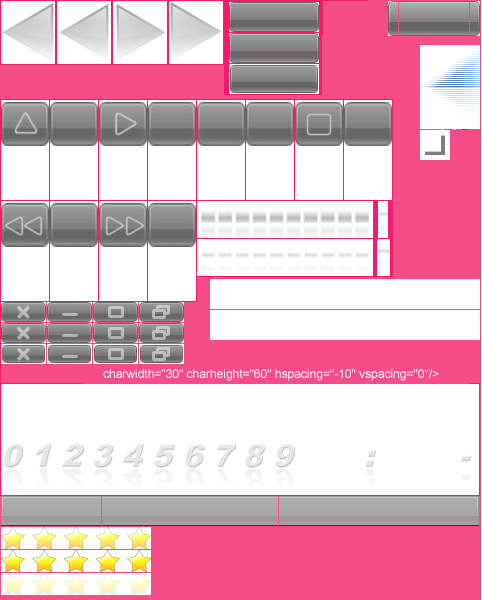
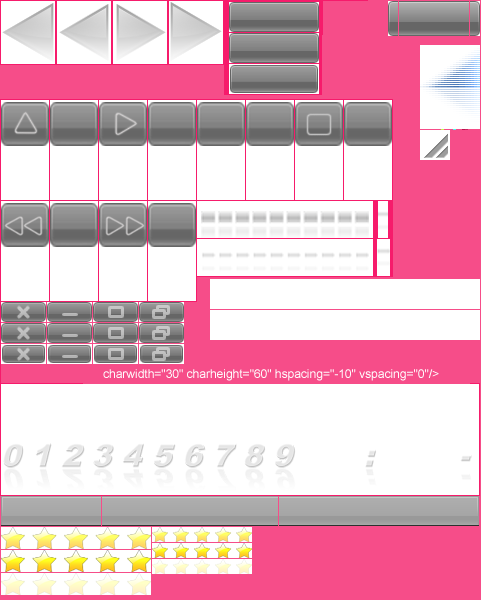
-added browser page (50% done) -improved resizer graphics -imported rating stars for covershow to graphics.png

Changed region(s): [[0.3112, 0.87, 0.529, 0.96], [0.8714, 0.21, 0.9336, 0.27]]

diff --git a/skins/Komodo/engine/scripts/main.m b/skins/Komodo/engine/scripts/main.m
@@ -18,6 +18,7 @@
 #define OPENVID 1
 #define OPENAVS 2
 #define OPENML 3
+#define OPENIE 4
 
 Global layout main; 
 
@@ -36,6 +37,7 @@ Global group VISGroup, vidButtons, avsButtons;
 Global WindowHolder AVSHolder, VideoHolder, MLHolder;
 Global int localOpen, openVIDAVS;
 Global timer delayVisShow, delayClearLocalOpen, delayRequestPageSwitch;
+Global browser mainBrowser;
 
 Global group pbuttonsWindow, pbuttonsFull;
 Global button buttonWindow, buttonFull;
@@ -85,6 +87,7 @@ System.onScriptLoaded() {
 	avsRandom.onDataChanged();
 	
 	MLHolder = main.findObject("wndhlr.ml");
+	mainBrowser = main.findObject("main.browser");
 	
 	delayVisShow = new Timer;
 	delayVisShow.setDelay(1500);
@@ -187,13 +190,18 @@ main.onAction(String action, String param, Int x, int y, int p1, int p2, GuiObje
 		AVSHolder.hide();
 		VideoHolder.hide();
 		MLHolder.hide();
-		if (param=="player.main.vis" || param=="player.main.ml") {
+		mainBrowser.hide();
+		
+		if (param=="player.main.vis" || param=="player.main.ml" || param=="player.main.ie") {
 			if (param=="player.main.ml") openVIDAVS = OPENML;
+			if (param=="player.main.ie") openVIDAVS = OPENIE;
+			
 			delayVisShow.start();
 			
 			if ((isVideo() && openVIDAVS==0) || openVIDAVS == OPENVID) videoname = 1;
 		} else {
 			if (delayVisShow.isRunning()) delayVisShow.stop();
+			openVIDAVS = -1;
 		}
 		
 		group temp = NULL;
@@ -223,11 +231,15 @@ delayRequestPageSwitch.onTimer() {
 delayVisShow.onTimer() {
 	stop();
 	
-	if (!VISGroup.isVisible() && openVIDAVS!=OPENML) return;
+	if (!VISGroup.isVisible() && openVIDAVS!=OPENML && openVIDAVS!=OPENIE) return;
 	
 	localOpen = 1;
+
 	if (openVIDAVS == OPENML) {
 		MLHolder.show();
+	} else if (openVIDAVS == OPENIE) {
+		mainBrowser.show();
+		
 	} else if ((isVideo() && openVIDAVS==0) || openVIDAVS == OPENVID) {
 		VideoHolder.show();
 		vidButtons.show();
